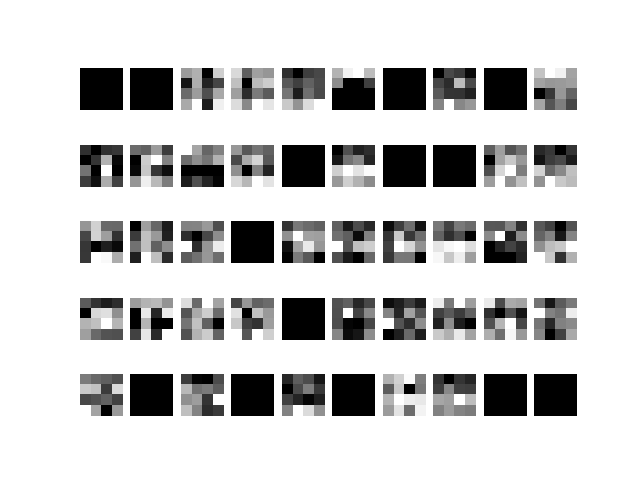
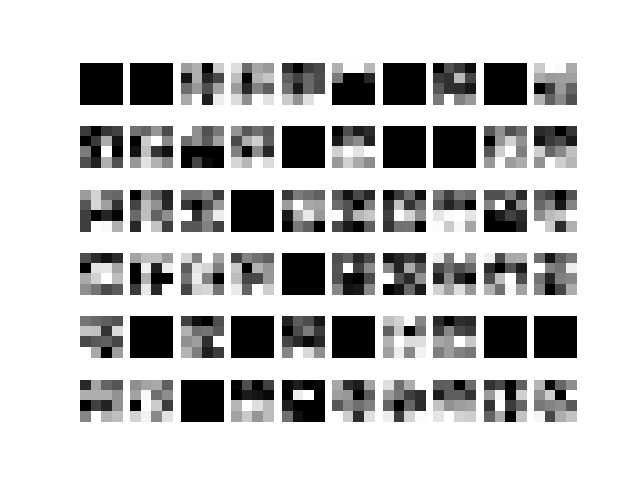
rerun part A Qn1

diff --git a/src/part_a/part_a_qn_1.py b/src/part_a/part_a_qn_1.py
@@ -185,8 +185,8 @@ def main():
             plt.figure()
             plt.gray()
             h_conv2_ = np.array(h_conv2_)
-            for j in range(50):
-                plt.subplot(5, 10, j + 1)
+            for j in range(60):
+                plt.subplot(6, 10, j + 1)
                 plt.axis('off')
                 plt.imshow(h_conv2_[0, :, :, j])
             plt.savefig('./part_a_qn1-2_conv2({}).png'.format(i))
@@ -194,8 +194,8 @@ def main():
             plt.figure()
             plt.gray()
             h_pool2_ = np.array(h_pool2_)
-            for j in range(50):
-                plt.subplot(5, 10, j + 1)
+            for j in range(60):
+                plt.subplot(6, 10, j + 1)
                 plt.axis('off')
                 plt.imshow(h_pool2_[0, :, :, j])
             plt.savefig('./part_a_qn1-2_pool2({}).png'.format(i))
